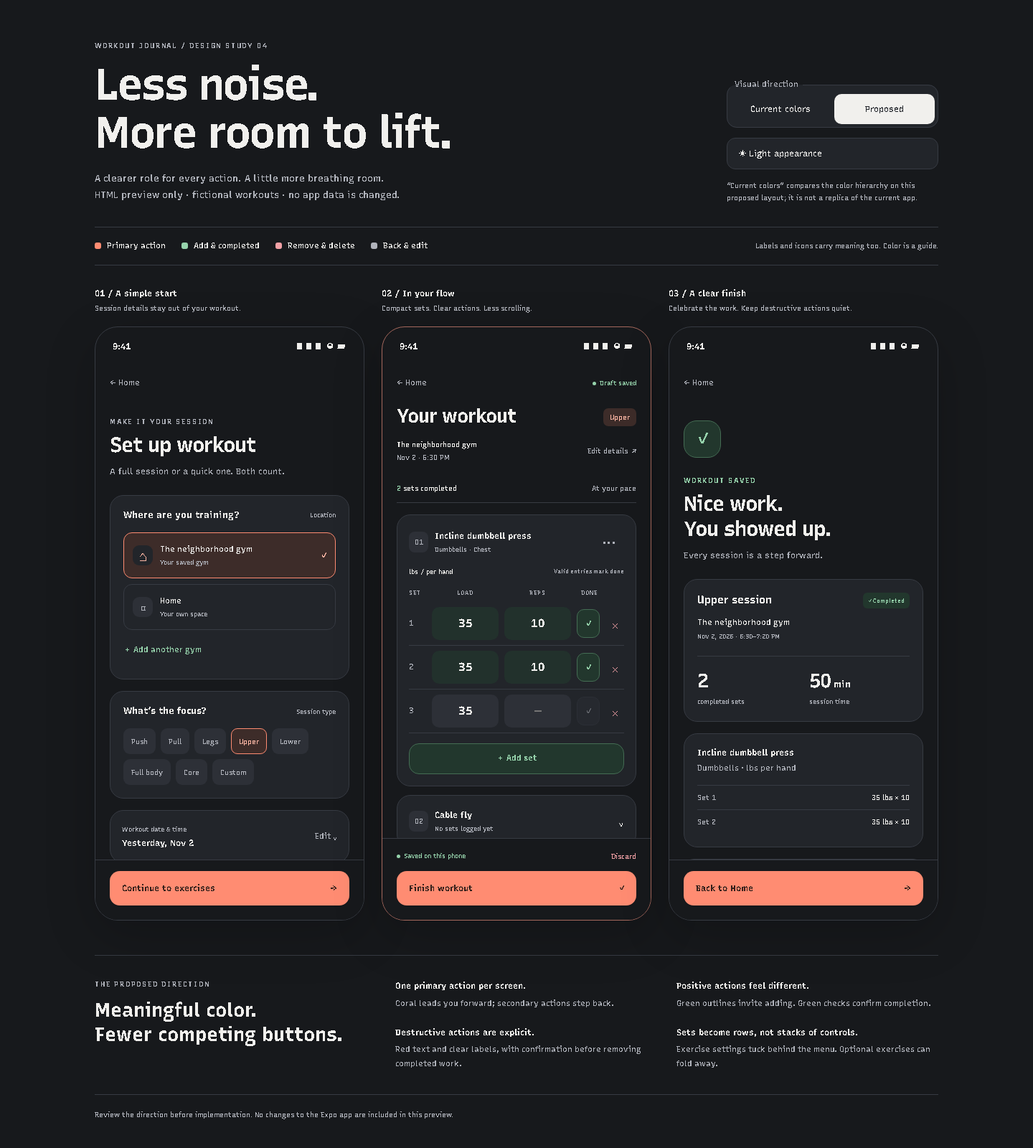
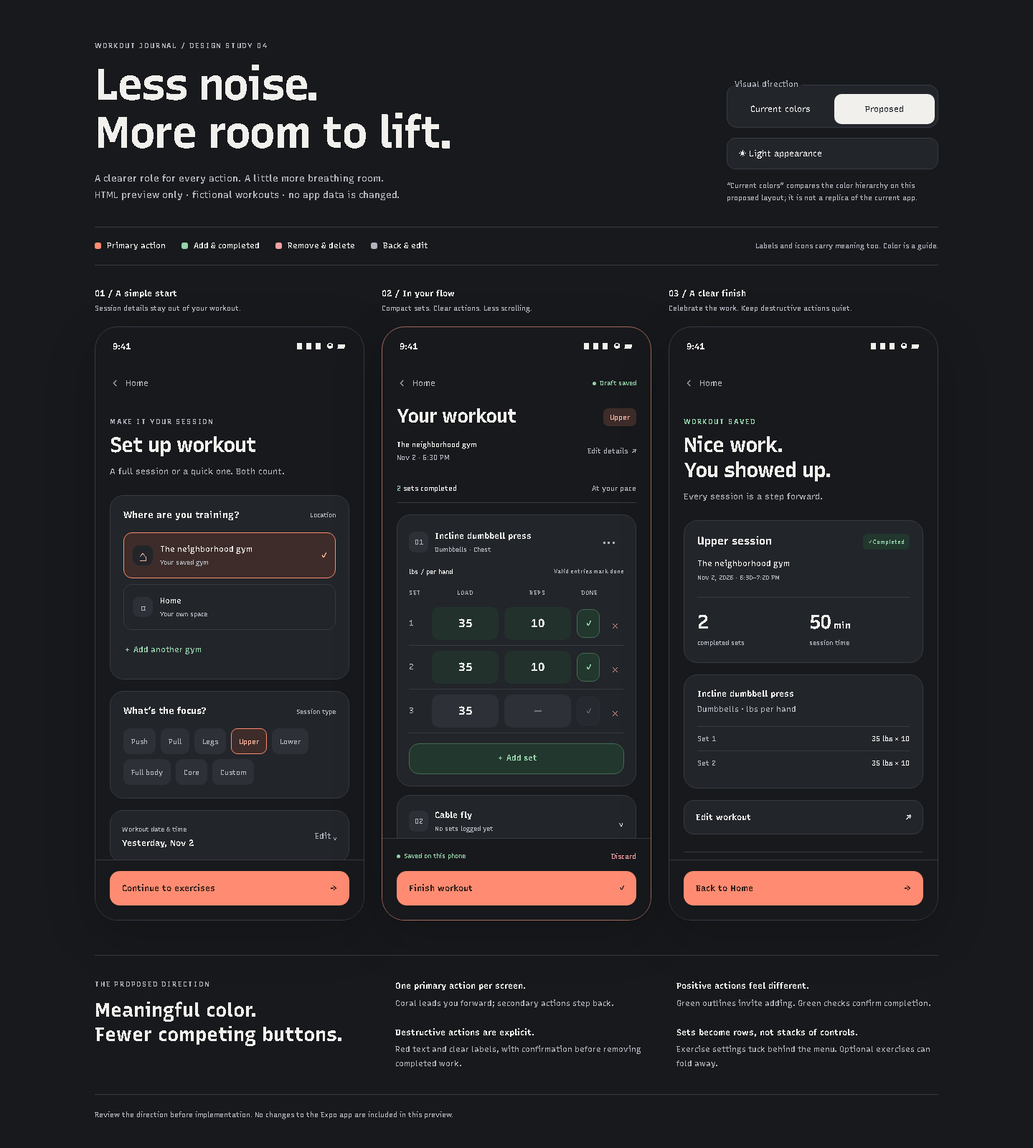
design: simplify Home navigation and saved-workout header

diff --git a/previews/ui-overhaul/ui-overhaul-preview.css b/previews/ui-overhaul/ui-overhaul-preview.css
@@ -2,10 +2,12 @@
 @font-face{font-family:Recursive;src:url('../../assets/recursive-bold.ttf') format('truetype');font-weight:700 900;font-display:swap}
 :root{--bg:#f6f6f8;--surface:#fff;--ink:#292a2e;--muted:#6a6c73;--line:#e7e7eb;--soft:#f2f2f5;--coral:#ff745b;--coral-soft:#fff0eb;--coral-ink:#a73b28;--green:#28734e;--green-soft:#eaf5ed;--green-line:#bdd8c6;--red:#b13d43;--red-soft:#fcf0f0;--shadow:0 20px 70px #24252d0b;--focus:#28734e}
 [data-theme=dark]{--bg:#17191c;--surface:#22252a;--ink:#f1f0ed;--muted:#b0b3bb;--line:#373b43;--soft:#2d3037;--coral:#ff8c72;--coral-soft:#3d2c29;--coral-ink:#ffb6a4;--green:#96d3ac;--green-soft:#22372d;--green-line:#456d54;--red:#f2a1a6;--red-soft:#402b32;--shadow:0 20px 70px #0003;--focus:#96d3ac;color-scheme:dark}
-*{box-sizing:border-box}body{margin:0;background:var(--bg);color:var(--ink);font-family:Recursive,system-ui,sans-serif;font-size:14px;line-height:1.5}button,input,select{font:inherit}button{cursor:pointer}button:disabled{cursor:default;opacity:.45}button:focus-visible,input:focus-visible,select:focus-visible{outline:3px solid var(--focus);outline-offset:3px}button{touch-action:manipulation}button,input,select{color:inherit}button{border:0}h1,h2,h3,h4,p{margin:0}h1{font-size:clamp(36px,4.4vw,62px);line-height:1.08;letter-spacing:-2.8px;margin:14px 0 18px}h2{font-size:26px;line-height:1.25}h3{font-size:29px;line-height:1.2;letter-spacing:-1px;margin:8px 0 10px}h4{font-size:15px;line-height:1.4}.muted{color:var(--muted)}.small{font-size:11px}.eyebrow{font-size:10px;letter-spacing:1.8px;font-weight:700;color:var(--muted)}.preview-header{max-width:1240px;margin:0 auto;padding:56px 32px 32px;display:flex;justify-content:space-between;gap:32px;align-items:flex-end}.intro{color:var(--muted);font-size:13px;line-height:1.8}.preview-controls{width:295px;flex-shrink:0;display:grid;gap:14px}.segmented{margin:0;padding:4px;background:var(--surface);border:1px solid var(--line);border-radius:14px;display:flex;gap:4px}.segmented legend{font-size:11px;padding:0 6px;color:var(--muted)}.segmented button{flex:1;background:transparent;border-radius:10px;min-height:42px;font-size:12px}.segmented button[aria-pressed=true]{background:var(--ink);color:var(--surface)}.theme-toggle{min-height:44px;background:var(--surface);border:1px solid var(--line);border-radius:12px;text-align:left;padding:0 16px;font-size:12px}.control-note{font-size:10px;line-height:1.7;color:var(--muted)}.design-key{max-width:1176px;margin:0 auto 32px;display:flex;align-items:center;gap:22px;border-top:1px solid var(--line);border-bottom:1px solid var(--line);padding:18px 0;font-size:11px;flex-wrap:wrap}.design-key>span{display:flex;align-items:center;gap:8px}.design-key p{margin-left:auto;color:var(--muted);font-size:10px}.swatch{width:9px;height:9px;border-radius:3px}.swatch.coral{background:var(--coral)}.swatch.green{background:var(--green)}.swatch.red{background:var(--red)}.swatch.gray{background:var(--muted)}.screen-tabs{display:none}.screens{max-width:1240px;margin:auto;padding:0 32px;display:grid;grid-template-columns:repeat(3,minmax(0,1fr));gap:24px}.screen-panel{min-width:0}.panel-caption{margin-bottom:18px}.panel-caption h2{font-size:12px;font-weight:700}.panel-caption p{font-size:10px;color:var(--muted);margin-top:5px}.phone{height:828px;border-radius:32px;background:var(--bg);border:1px solid var(--line);box-shadow:var(--shadow);overflow:hidden;display:flex;flex-direction:column}.phone.featured{border-color:color-mix(in srgb,var(--coral) 55%,var(--line))}.status-bar{padding:18px 24px 10px;display:flex;justify-content:space-between;font-size:12px;font-weight:700;flex-shrink:0}.status-icons{font-family:system-ui;font-size:11px;letter-spacing:1px}.phone-content{padding:10px 20px 24px;overflow:auto;flex:1;min-height:0;scrollbar-width:thin;scrollbar-color:var(--line) transparent}.phone-content>.eyebrow{margin-top:24px}.phone-content>.muted{font-size:12px;margin-bottom:24px}.card{background:var(--surface);border:1px solid var(--line);border-radius:19px;padding:18px;margin:16px 0}.section-heading{display:flex;justify-content:space-between;align-items:center;gap:10px;margin-bottom:15px}.section-heading h4{font-size:13px}.tiny-label{font-size:9px;color:var(--muted);display:block}.button{min-height:48px;border-radius:14px;padding:12px 16px;display:flex;align-items:center;justify-content:center;gap:8px;font-weight:700;font-size:12px;width:100%}.button.primary{background:var(--coral);color:#35201b;border:1px solid transparent;justify-content:space-between;box-shadow:0 3px 0 #00000008}.positive{color:var(--green)}.button.positive{background:var(--green-soft);border:1px solid var(--green-line)}.negative{color:var(--red)}.neutral{color:var(--muted)}.button.secondary{background:var(--surface);border:1px solid var(--line);color:var(--ink);justify-content:space-between}.text-button{display:inline-flex;align-items:center;gap:6px;padding:8px 0;min-height:44px;font-size:11px;font-weight:600;background:transparent;text-align:left}.text-button:hover{text-decoration:underline}.icon-button{width:44px;min-height:44px;border-radius:12px;background:transparent;font-size:22px;flex-shrink:0}.choice{width:100%;display:flex;align-items:center;gap:10px;background:var(--surface);border:1px solid var(--line);padding:12px;border-radius:12px;text-align:left;min-height:64px}.choice>span:nth-child(2){flex:1;font-size:11px}.choice small{display:block;font-size:9px;color:var(--muted);margin-top:3px}.choice-icon{width:28px;height:28px;border-radius:9px;background:var(--soft);display:grid;place-items:center;font-size:20px;color:var(--muted)}.choice.selected{border-color:var(--coral);background:var(--coral-soft)}.choice.selected .choice-icon{background:var(--surface);color:var(--coral-ink)}.selected-mark{visibility:hidden;color:var(--coral-ink)}.choice.selected .selected-mark{visibility:visible}.location-options{display:grid;gap:8px}.setup-card>.text-button{margin-top:6px}.type-chips{display:flex;flex-wrap:wrap;gap:7px}.type-chips button{background:var(--soft);border:1px solid transparent;border-radius:9px;min-height:36px;padding:6px 10px;font-size:10px;color:var(--muted)}.type-chips button[aria-pressed=true]{background:var(--coral-soft);color:var(--coral-ink);border-color:var(--coral)}.date-card{padding:14px 16px}.disclosure{display:flex;align-items:center;justify-content:space-between;gap:10px;width:100%;text-align:left;background:transparent;padding:0;min-height:44px}.disclosure strong{display:block;font-size:12px;margin-top:4px}.neutral-text{color:var(--muted);font-size:11px}.quiet-note{color:var(--muted);font-size:10px;line-height:1.8;margin:18px 3px}.phone-footer{padding:15px 20px 20px;background:var(--bg);border-top:1px solid var(--line);flex-shrink:0}.top-row,.title-row{display:flex;justify-content:space-between;align-items:center;gap:8px}.title-row h3{font-size:27px}.save-status{display:inline-flex;align-items:center;gap:5px;color:var(--green);font-size:9px}.save-status i{width:5px;height:5px;border-radius:50%;background:currentColor}.session-tag{font-size:10px;color:var(--coral-ink);background:var(--coral-soft);padding:5px 9px;border-radius:7px}.session-summary{display:flex;justify-content:space-between;gap:8px;align-items:center;margin-bottom:22px}.session-summary p{font-size:10px;line-height:1.8}.session-summary .text-button{font-size:10px}.progress-line{display:flex;align-items:center;justify-content:space-between;font-size:10px;padding:0 0 12px;border-bottom:1px solid var(--line)}.progress-line strong{color:var(--green)}.exercise-card{padding:16px;margin:16px 0 12px}.exercise-heading{display:flex;gap:9px;align-items:center}.exercise-heading h4{font-size:12px}.exercise-heading p{margin-top:3px;font-size:9px}.exercise-heading>div{flex:1}.exercise-number{font-size:10px;color:var(--muted);background:var(--soft);border-radius:8px;width:27px;height:29px;display:grid;place-items:center;flex-shrink:0}.load-caption{display:flex;align-items:center;justify-content:space-between;margin:12px 0 17px;font-size:9px;gap:6px}.load-caption>.muted{font-size:8px}.set-head,.set-row{display:grid;grid-template-columns:24px minmax(0,1fr) minmax(0,1fr) 34px 24px;gap:8px;align-items:center}.set-head{font-size:8px;letter-spacing:1px;color:var(--muted);text-align:center;margin:0 0 7px}.set-head span:first-child{text-align:left}.set-row{padding:7px 0;border-bottom:1px solid var(--line)}.set-number{font-size:11px;color:var(--muted)}input,select{width:100%;min-width:0;background:var(--soft);border:1px solid transparent;border-radius:10px;min-height:44px;padding:9px 11px;font-size:12px}input:focus,select:focus{border-color:var(--muted)}.set-row input{text-align:center;padding:8px 3px;font-size:16px;font-weight:700;font-variant-numeric:tabular-nums;min-height:46px}.set-row.complete input{background:color-mix(in srgb,var(--green-soft) 65%,var(--surface))}.set-check{width:32px;height:40px;border:1px solid var(--line);border-radius:10px;background:var(--soft);color:var(--muted)}.set-check[aria-checked=true]{background:var(--green-soft);color:var(--green);border-color:var(--green-line);font-weight:700}.remove-set{background:transparent;color:var(--red);font-family:system-ui;font-size:20px;min-height:44px;width:28px;justify-self:center}.add-set{margin-top:14px;min-height:40px;font-size:11px}.compact-exercise{padding:14px 16px;margin:12px 0}.compact-exercise .disclosure strong{font-size:12px;margin:0}.compact-exercise small{display:block;font-size:9px;margin-top:3px}.add-exercise{margin-top:14px;background:transparent!important;border-style:dashed!important}.logging-footer{padding-top:8px}.footer-summary{display:flex;justify-content:space-between;align-items:center;margin-bottom:5px}.footer-summary .text-button{font-size:10px;min-height:32px}.completion-mark{width:52px;height:52px;display:grid;place-items:center;background:var(--green-soft);border:1px solid var(--green-line);color:var(--green);border-radius:18px;font-size:27px;margin:30px 0 18px}.success-text{color:var(--green)}.saved-session{margin-top:24px}.saved-session>.title-row{margin-bottom:12px}.saved-session p{font-size:11px;margin-top:4px}.saved-session p.small{font-size:9px}.success-badge{color:var(--green);background:var(--green-soft);padding:5px 7px;font-size:8px;border-radius:6px;white-space:nowrap}.saved-metrics{display:grid;grid-template-columns:1fr 1fr;gap:16px;margin-top:20px;padding-top:16px;border-top:1px solid var(--line)}.saved-metrics strong{font-size:27px;letter-spacing:-1px;line-height:1.3;display:block}.metric-unit{font-size:13px;letter-spacing:0}.saved-metrics div>span{font-size:9px;color:var(--muted)}.saved-exercise h4{font-size:12px}.saved-exercise>.small{margin-top:5px}.saved-exercise #saved-values{margin-top:15px}.saved-exercise #saved-values p{display:flex;justify-content:space-between;gap:12px;font-size:10px;padding:9px 0;border-top:1px solid var(--line)}.saved-exercise #saved-values p>span{color:var(--muted)}.danger-zone{text-align:center;margin-top:24px;border-top:1px solid var(--line);padding-top:17px}.danger-zone .text-button{justify-content:center}.rationale{max-width:1176px;margin:48px auto 0;padding:32px 0;border-top:1px solid var(--line);display:grid;grid-template-columns:1fr 2fr;gap:40px}.rationale h2{margin-top:12px;font-size:27px}.rationale ul{padding:0;margin:0;list-style:none;display:grid;grid-template-columns:1fr 1fr;gap:20px 28px}.rationale li{font-size:11px;color:var(--muted);line-height:1.8}.rationale strong{display:block;color:var(--ink);font-size:12px;margin-bottom:3px}.preview-footer{max-width:1176px;margin:0 auto 36px;font-size:10px;color:var(--muted);padding-top:20px;border-top:1px solid var(--line)}.toast{position:fixed;bottom:24px;left:50%;transform:translateX(-50%);background:var(--ink);color:var(--surface);border-radius:12px;padding:14px 20px;max-width:min(460px,calc(100% - 32px));width:max-content;font-size:12px;box-shadow:var(--shadow);z-index:20}dialog{background:var(--surface);color:var(--ink);border:1px solid var(--line);border-radius:22px;padding:26px;max-width:400px;width:calc(100% - 32px);margin:auto;box-shadow:var(--shadow)}dialog::backdrop{background:#10121988}dialog h2{font-size:22px;margin:10px 0 12px}dialog p:not(.eyebrow){font-size:12px;color:var(--muted);line-height:1.8}.dialog-actions{display:flex;gap:10px;margin-top:24px}.button.destructive{background:var(--red);color:var(--surface)}[data-theme=dark] .button.destructive{color:#291317}.danger-text{color:var(--red)}label{display:grid;gap:7px;font-size:10px;color:var(--muted)}.field-grid{display:grid;grid-template-columns:1fr 1fr;gap:12px;margin:18px 0 10px}.exercise-settings{border-bottom:1px solid var(--line);padding:16px 0 5px}.exercise-settings>label input{font-size:11px}[hidden]{display:none!important}
+*{box-sizing:border-box}body{margin:0;background:var(--bg);color:var(--ink);font-family:Recursive,system-ui,sans-serif;font-size:14px;line-height:1.5}button,input,select{font:inherit}button{cursor:pointer}button:disabled{cursor:default;opacity:.45}button:focus-visible,input:focus-visible,select:focus-visible{outline:3px solid var(--focus);outline-offset:3px}button{touch-action:manipulation}button,input,select{color:inherit}button{border:0}h1,h2,h3,h4,p{margin:0}h1{font-size:clamp(36px,4.4vw,62px);line-height:1.08;letter-spacing:-2.8px;margin:14px 0 18px}h2{font-size:26px;line-height:1.25}h3{font-size:29px;line-height:1.2;letter-spacing:-1px;margin:8px 0 10px}h4{font-size:15px;line-height:1.4}.muted{color:var(--muted)}.small{font-size:11px}.eyebrow{font-size:10px;letter-spacing:1.8px;font-weight:700;color:var(--muted)}.preview-header{max-width:1240px;margin:0 auto;padding:56px 32px 32px;display:flex;justify-content:space-between;gap:32px;align-items:flex-end}.intro{color:var(--muted);font-size:13px;line-height:1.8}.preview-controls{width:295px;flex-shrink:0;display:grid;gap:14px}.segmented{margin:0;padding:4px;background:var(--surface);border:1px solid var(--line);border-radius:14px;display:flex;gap:4px}.segmented legend{font-size:11px;padding:0 6px;color:var(--muted)}.segmented button{flex:1;background:transparent;border-radius:10px;min-height:42px;font-size:12px}.segmented button[aria-pressed=true]{background:var(--ink);color:var(--surface)}.theme-toggle{min-height:44px;background:var(--surface);border:1px solid var(--line);border-radius:12px;text-align:left;padding:0 16px;font-size:12px}.control-note{font-size:10px;line-height:1.7;color:var(--muted)}.design-key{max-width:1176px;margin:0 auto 32px;display:flex;align-items:center;gap:22px;border-top:1px solid var(--line);border-bottom:1px solid var(--line);padding:18px 0;font-size:11px;flex-wrap:wrap}.design-key>span{display:flex;align-items:center;gap:8px}.design-key p{margin-left:auto;color:var(--muted);font-size:10px}.swatch{width:9px;height:9px;border-radius:3px}.swatch.coral{background:var(--coral)}.swatch.green{background:var(--green)}.swatch.red{background:var(--red)}.swatch.gray{background:var(--muted)}.screen-tabs{display:none}.screens{max-width:1240px;margin:auto;padding:0 32px;display:grid;grid-template-columns:repeat(3,minmax(0,1fr));gap:24px}.screen-panel{min-width:0}.panel-caption{margin-bottom:18px}.panel-caption h2{font-size:12px;font-weight:700}.panel-caption p{font-size:10px;color:var(--muted);margin-top:5px}.phone{height:828px;border-radius:32px;background:var(--bg);border:1px solid var(--line);box-shadow:var(--shadow);overflow:hidden;display:flex;flex-direction:column}.phone.featured{border-color:color-mix(in srgb,var(--coral) 55%,var(--line))}.status-bar{padding:18px 24px 10px;display:flex;justify-content:space-between;font-size:12px;font-weight:700;flex-shrink:0}.status-icons{font-family:system-ui;font-size:11px;letter-spacing:1px}.phone-content{padding:10px 20px 24px;overflow:auto;flex:1;min-height:0;scrollbar-width:thin;scrollbar-color:var(--line) transparent}.phone-content>.eyebrow{margin-top:24px}.phone-content>.muted{font-size:12px;margin-bottom:24px}.card{background:var(--surface);border:1px solid var(--line);border-radius:19px;padding:18px;margin:16px 0}.section-heading{display:flex;justify-content:space-between;align-items:center;gap:10px;margin-bottom:15px}.section-heading h4{font-size:13px}.tiny-label{font-size:9px;color:var(--muted);display:block}.button{min-height:48px;border-radius:14px;padding:12px 16px;display:flex;align-items:center;justify-content:center;gap:8px;font-weight:700;font-size:12px;width:100%}.button.primary{background:var(--coral);color:#35201b;border:1px solid transparent;justify-content:space-between;box-shadow:0 3px 0 #00000008}.positive{color:var(--green)}.button.positive{background:var(--green-soft);border:1px solid var(--green-line)}.negative{color:var(--red)}.neutral{color:var(--muted)}.button.secondary{background:var(--surface);border:1px solid var(--line);color:var(--ink);justify-content:space-between}.text-button{display:inline-flex;align-items:center;gap:6px;padding:8px 0;min-height:44px;font-size:11px;font-weight:600;background:transparent;text-align:left}.text-button:hover{text-decoration:underline}.icon-button{width:44px;min-height:44px;border-radius:12px;background:transparent;font-size:22px;flex-shrink:0}.choice{width:100%;display:flex;align-items:center;gap:10px;background:var(--surface);border:1px solid var(--line);padding:12px;border-radius:12px;text-align:left;min-height:64px}.choice>span:nth-child(2){flex:1;font-size:11px}.choice small{display:block;font-size:9px;color:var(--muted);margin-top:3px}.choice-icon{width:28px;height:28px;border-radius:9px;background:var(--soft);display:grid;place-items:center;font-size:20px;color:var(--muted)}.choice.selected{border-color:var(--coral);background:var(--coral-soft)}.choice.selected .choice-icon{background:var(--surface);color:var(--coral-ink)}.selected-mark{visibility:hidden;color:var(--coral-ink)}.choice.selected .selected-mark{visibility:visible}.location-options{display:grid;gap:8px}.setup-card>.text-button{margin-top:6px}.type-chips{display:flex;flex-wrap:wrap;gap:7px}.type-chips button{background:var(--soft);border:1px solid transparent;border-radius:9px;min-height:36px;padding:6px 10px;font-size:10px;color:var(--muted)}.type-chips button[aria-pressed=true]{background:var(--coral-soft);color:var(--coral-ink);border-color:var(--coral)}.date-card{padding:14px 16px}.disclosure{display:flex;align-items:center;justify-content:space-between;gap:10px;width:100%;text-align:left;background:transparent;padding:0;min-height:44px}.disclosure strong{display:block;font-size:12px;margin-top:4px}.neutral-text{color:var(--muted);font-size:11px}.quiet-note{color:var(--muted);font-size:10px;line-height:1.8;margin:18px 3px}.phone-footer{padding:15px 20px 20px;background:var(--bg);border-top:1px solid var(--line);flex-shrink:0}.top-row,.title-row{display:flex;justify-content:space-between;align-items:center;gap:8px}.title-row h3{font-size:27px}.save-status{display:inline-flex;align-items:center;gap:5px;color:var(--green);font-size:9px}.save-status i{width:5px;height:5px;border-radius:50%;background:currentColor}.session-tag{font-size:10px;color:var(--coral-ink);background:var(--coral-soft);padding:5px 9px;border-radius:7px}.session-summary{display:flex;justify-content:space-between;gap:8px;align-items:center;margin-bottom:22px}.session-summary p{font-size:10px;line-height:1.8}.session-summary .text-button{font-size:10px}.progress-line{display:flex;align-items:center;justify-content:space-between;font-size:10px;padding:0 0 12px;border-bottom:1px solid var(--line)}.progress-line strong{color:var(--green)}.exercise-card{padding:16px;margin:16px 0 12px}.exercise-heading{display:flex;gap:9px;align-items:center}.exercise-heading h4{font-size:12px}.exercise-heading p{margin-top:3px;font-size:9px}.exercise-heading>div{flex:1}.exercise-number{font-size:10px;color:var(--muted);background:var(--soft);border-radius:8px;width:27px;height:29px;display:grid;place-items:center;flex-shrink:0}.load-caption{display:flex;align-items:center;justify-content:space-between;margin:12px 0 17px;font-size:9px;gap:6px}.load-caption>.muted{font-size:8px}.set-head,.set-row{display:grid;grid-template-columns:24px minmax(0,1fr) minmax(0,1fr) 34px 24px;gap:8px;align-items:center}.set-head{font-size:8px;letter-spacing:1px;color:var(--muted);text-align:center;margin:0 0 7px}.set-head span:first-child{text-align:left}.set-row{padding:7px 0;border-bottom:1px solid var(--line)}.set-number{font-size:11px;color:var(--muted)}input,select{width:100%;min-width:0;background:var(--soft);border:1px solid transparent;border-radius:10px;min-height:44px;padding:9px 11px;font-size:12px}input:focus,select:focus{border-color:var(--muted)}.set-row input{text-align:center;padding:8px 3px;font-size:16px;font-weight:700;font-variant-numeric:tabular-nums;min-height:46px}.set-row.complete input{background:color-mix(in srgb,var(--green-soft) 65%,var(--surface))}.set-check{width:32px;height:40px;border:1px solid var(--line);border-radius:10px;background:var(--soft);color:var(--muted)}.set-check[aria-checked=true]{background:var(--green-soft);color:var(--green);border-color:var(--green-line);font-weight:700}.remove-set{background:transparent;color:var(--red);font-family:system-ui;font-size:20px;min-height:44px;width:28px;justify-self:center}.add-set{margin-top:14px;min-height:40px;font-size:11px}.compact-exercise{padding:14px 16px;margin:12px 0}.compact-exercise .disclosure strong{font-size:12px;margin:0}.compact-exercise small{display:block;font-size:9px;margin-top:3px}.add-exercise{margin-top:14px;background:transparent!important;border-style:dashed!important}.logging-footer{padding-top:8px}.footer-summary{display:flex;justify-content:space-between;align-items:center;margin-bottom:5px}.footer-summary .text-button{font-size:10px;min-height:32px}.success-text{color:var(--green)}.saved-session{margin-top:24px}.saved-session>.title-row{margin-bottom:12px}.saved-session p{font-size:11px;margin-top:4px}.saved-session p.small{font-size:9px}.success-badge{color:var(--green);background:var(--green-soft);padding:5px 7px;font-size:8px;border-radius:6px;white-space:nowrap}.saved-metrics{display:grid;grid-template-columns:1fr 1fr;gap:16px;margin-top:20px;padding-top:16px;border-top:1px solid var(--line)}.saved-metrics strong{font-size:27px;letter-spacing:-1px;line-height:1.3;display:block}.metric-unit{font-size:13px;letter-spacing:0}.saved-metrics div>span{font-size:9px;color:var(--muted)}.saved-exercise h4{font-size:12px}.saved-exercise>.small{margin-top:5px}.saved-exercise #saved-values{margin-top:15px}.saved-exercise #saved-values p{display:flex;justify-content:space-between;gap:12px;font-size:10px;padding:9px 0;border-top:1px solid var(--line)}.saved-exercise #saved-values p>span{color:var(--muted)}.danger-zone{text-align:center;margin-top:24px;border-top:1px solid var(--line);padding-top:17px}.danger-zone .text-button{justify-content:center}.rationale{max-width:1176px;margin:48px auto 0;padding:32px 0;border-top:1px solid var(--line);display:grid;grid-template-columns:1fr 2fr;gap:40px}.rationale h2{margin-top:12px;font-size:27px}.rationale ul{padding:0;margin:0;list-style:none;display:grid;grid-template-columns:1fr 1fr;gap:20px 28px}.rationale li{font-size:11px;color:var(--muted);line-height:1.8}.rationale strong{display:block;color:var(--ink);font-size:12px;margin-bottom:3px}.preview-footer{max-width:1176px;margin:0 auto 36px;font-size:10px;color:var(--muted);padding-top:20px;border-top:1px solid var(--line)}.toast{position:fixed;bottom:24px;left:50%;transform:translateX(-50%);background:var(--ink);color:var(--surface);border-radius:12px;padding:14px 20px;max-width:min(460px,calc(100% - 32px));width:max-content;font-size:12px;box-shadow:var(--shadow);z-index:20}dialog{background:var(--surface);color:var(--ink);border:1px solid var(--line);border-radius:22px;padding:26px;max-width:400px;width:calc(100% - 32px);margin:auto;box-shadow:var(--shadow)}dialog::backdrop{background:#10121988}dialog h2{font-size:22px;margin:10px 0 12px}dialog p:not(.eyebrow){font-size:12px;color:var(--muted);line-height:1.8}.dialog-actions{display:flex;gap:10px;margin-top:24px}.button.destructive{background:var(--red);color:var(--surface)}[data-theme=dark] .button.destructive{color:#291317}.danger-text{color:var(--red)}label{display:grid;gap:7px;font-size:10px;color:var(--muted)}.field-grid{display:grid;grid-template-columns:1fr 1fr;gap:12px;margin:18px 0 10px}.exercise-settings{border-bottom:1px solid var(--line);padding:16px 0 5px}.exercise-settings>label input{font-size:11px}[hidden]{display:none!important}
 /* Color comparison only; structure remains the proposed compact layout. */
-[data-style=current] .positive,[data-style=current] .negative,[data-style=current] .neutral{color:var(--coral-ink)}[data-style=current] .button.positive,[data-style=current] .button.secondary,[data-style=current] .text-button,[data-style=current] .remove-set,[data-style=current] .set-check{background:var(--coral-soft);color:var(--coral-ink);border-color:transparent}[data-style=current] .text-button{padding:8px 12px;border-radius:99px}[data-style=current] .save-status,[data-style=current] .success-text,[data-style=current] .progress-line strong{color:var(--coral-ink)}[data-style=current] .completion-mark,[data-style=current] .success-badge,[data-style=current] .set-row.complete input{background:var(--coral-soft);color:var(--coral-ink);border-color:transparent}
+[data-style=current] .positive,[data-style=current] .negative,[data-style=current] .neutral{color:var(--coral-ink)}[data-style=current] .button.positive,[data-style=current] .button.secondary,[data-style=current] .text-button,[data-style=current] .remove-set,[data-style=current] .set-check{background:var(--coral-soft);color:var(--coral-ink);border-color:transparent}[data-style=current] .text-button{padding:8px 12px;border-radius:99px}[data-style=current] .save-status,[data-style=current] .success-text,[data-style=current] .progress-line strong{color:var(--coral-ink)}[data-style=current] .success-badge,[data-style=current] .set-row.complete input{background:var(--coral-soft);color:var(--coral-ink);border-color:transparent}
 @media(max-width:1100px) and (min-width:761px){.preview-header{padding-inline:20px}.screens{padding:0 20px;gap:14px}.design-key,.rationale,.preview-footer{margin-inline:20px}.phone-content{padding-inline:14px}.phone-footer{padding-inline:14px}.exercise-card{padding:12px}.set-row,.set-head{gap:5px;grid-template-columns:19px minmax(0,1fr) minmax(0,1fr) 30px 22px}.title-row h3{font-size:23px}.load-caption{flex-wrap:wrap}.save-status{font-size:8px}}
 @media(max-width:760px){.preview-header{padding:28px 20px 22px;display:block}h1{font-size:40px;letter-spacing:-2px}.intro{font-size:11px}.preview-controls{margin-top:24px;width:100%;display:grid;grid-template-columns:1fr auto;align-items:end;gap:12px}.theme-toggle{font-size:10px;padding:0 10px;min-height:50px}.control-note{grid-column:1/-1;font-size:9px}.design-key{margin:0 20px 20px;padding:14px 0;gap:10px 18px;font-size:10px}.design-key p{width:100%;margin-left:0;font-size:9px}.screen-tabs{display:flex;gap:5px;padding:0 20px;margin:0 auto 20px;max-width:440px}.screen-tabs button{flex:1;border-radius:10px;padding:10px 5px;min-height:44px;font-size:10px;background:var(--surface);color:var(--muted);border:1px solid var(--line)}.screen-tabs button[aria-pressed=true]{background:var(--coral-soft);border-color:var(--coral);color:var(--coral-ink)}.screens{display:block;padding:0 12px;max-width:416px}.screens[data-active=setup] [data-panel]:not([data-panel=setup]),.screens[data-active=logging] [data-panel]:not([data-panel=logging]),.screens[data-active=review] [data-panel]:not([data-panel=review]){display:none}.panel-caption{padding:0 8px}.phone{height:800px;max-height:calc(100svh - 30px);min-height:580px;border-radius:26px}.phone-content{padding-inline:20px}.rationale{margin:32px 20px 0;display:block;padding:28px 0}.rationale ul{margin-top:24px;gap:18px;grid-template-columns:1fr}.preview-footer{margin:0 20px 24px;line-height:1.8}.design-key{align-items:flex-start}}
 #exercise-dialog{max-height:85dvh;overflow:auto}#exercise-form>label{margin-top:20px}.suggestion-heading{margin:20px 0 10px;font-size:10px!important;font-weight:700}#exercise-suggestions{display:grid;gap:6px}.exercise-suggestion{min-height:44px;text-align:left;padding:10px 12px;border:1px solid var(--line);border-radius:10px;background:var(--soft);font-size:12px}.exercise-suggestion:hover{background:var(--coral-soft);border-color:var(--coral)}[data-added-exercise] strong{font-size:12px}[data-added-exercise]>.small{margin-top:5px}
 @media(prefers-reduced-motion:no-preference){button{transition:background .15s,border-color .15s,transform .15s}button:active{transform:translateY(1px)}}
+
+.back-link{display:inline-flex;align-items:center;gap:6px;min-height:44px;padding:8px;background:transparent;border-radius:8px;margin-left:-8px;color:var(--muted);font-size:12px;font-weight:500}.back-link:hover{background:var(--soft)}[data-style=current] .back-link{background:transparent;color:var(--muted);border-radius:8px}.back-link svg{flex-shrink:0}

diff --git a/previews/ui-overhaul/ui-overhaul-preview.html b/previews/ui-overhaul/ui-overhaul-preview.html
@@ -28,7 +28,7 @@
       <div class="phone">
         <div class="status-bar" aria-hidden="true"><span>9:41</span><span class="status-icons">▮▮▮  ◒  ▰</span></div>
         <div class="phone-content">
-          <button class="text-button neutral" data-notice="Your draft stays saved when you go Home.">← Home</button>
+          <button class="back-link neutral" data-notice="Your draft stays saved when you go Home."><svg viewBox="0 0 24 24" width="16" height="16" fill="none" stroke="currentColor" stroke-width="1.7" aria-hidden="true"><path d="m14 6-6 6 6 6"/></svg><span>Home</span></button>
           <p class="eyebrow">MAKE IT YOUR SESSION</p><h3>Set up workout</h3><p class="muted">A full session or a quick one. Both count.</p>
           <div class="card setup-card">
             <div class="section-heading"><h4>Where are you training?</h4><span class="tiny-label">Location</span></div>
@@ -48,7 +48,7 @@
       <div class="phone featured">
         <div class="status-bar" aria-hidden="true"><span>9:41</span><span class="status-icons">▮▮▮  ◒  ▰</span></div>
         <div class="phone-content">
-          <div class="top-row"><button class="text-button neutral" data-notice="Draft kept. In the app, Home will show Resume workout.">← Home</button><span class="save-status"><i></i> Draft saved</span></div>
+          <div class="top-row"><button class="back-link neutral" data-notice="Draft kept. In the app, Home will show Resume workout."><svg viewBox="0 0 24 24" width="16" height="16" fill="none" stroke="currentColor" stroke-width="1.7" aria-hidden="true"><path d="m14 6-6 6 6 6"/></svg><span>Home</span></button><span class="save-status"><i></i> Draft saved</span></div>
           <div class="title-row"><h3>Your workout</h3><span class="session-tag" data-session>Upper</span></div>
           <div class="session-summary"><p><span data-gym>The neighborhood gym</span><br><span class="muted" data-date>Nov 2 · 6:30 PM</span></p><button class="text-button neutral" id="edit-details">Edit details <span aria-hidden="true">↗</span></button></div>
           <div class="progress-line"><span><strong id="done-count">2</strong> sets completed</span><span class="muted">At your pace</span></div>
@@ -79,8 +79,8 @@
       <div class="phone">
         <div class="status-bar" aria-hidden="true"><span>9:41</span><span class="status-icons">▮▮▮  ◒  ▰</span></div>
         <div class="phone-content">
-          <button class="text-button neutral" data-notice="In the app, this returns to your saved workout history.">← Home</button>
-          <div class="completion-mark" aria-hidden="true">✓</div><p class="eyebrow success-text">WORKOUT SAVED</p><h3>Nice work.<br>You showed up.</h3><p class="muted">Every session is a step forward.</p>
+          <button class="back-link neutral" data-notice="In the app, this returns to your saved workout history."><svg viewBox="0 0 24 24" width="16" height="16" fill="none" stroke="currentColor" stroke-width="1.7" aria-hidden="true"><path d="m14 6-6 6 6 6"/></svg><span>Home</span></button>
+          <p class="eyebrow success-text">WORKOUT SAVED</p><h3>Nice work.<br>You showed up.</h3><p class="muted">Every session is a step forward.</p>
           <div class="card saved-session"><div class="title-row"><h4><span data-session>Upper</span> session</h4><span class="success-badge">✓ Completed</span></div><p data-gym>The neighborhood gym</p><p class="small muted">Nov 2, 2026 · 6:30–7:20 PM</p><div class="saved-metrics"><div><strong id="saved-sets">2</strong><span>completed sets</span></div><div><strong>50<span class="metric-unit"> min</span></strong><span>session time</span></div></div></div>
           <div class="card saved-exercise"><h4 id="saved-name">Incline dumbbell press</h4><p class="small muted">Dumbbells · lbs per hand</p><div id="saved-values"><p><span>Set 1</span><strong>35 lbs × 10</strong></p><p><span>Set 2</span><strong>35 lbs × 10</strong></p></div></div>
           <button class="button secondary neutral" id="edit-saved">Edit workout <span aria-hidden="true">↗</span></button>
